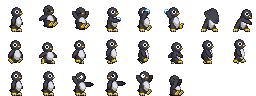
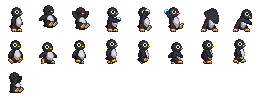
added dodge

diff --git a/core/src/com/platformer/states/Play.java b/core/src/com/platformer/states/Play.java
@@ -41,6 +41,7 @@ public class Play extends GameState {
     private TiledMap tiledMap;
     private OrthogonalTiledMapRenderer tilemapRenderer;
     private Background[] bgs = new Background[3];
+    private boolean shouldPauseAnimation = false;
 
     private Player player;
     private Score score;
@@ -84,6 +85,15 @@ public class Play extends GameState {
                 player.getBody().applyForceToCenter(0, 200, true);
             }
         }
+        if(GameInput.isDown(GameInput.DOWN)) {
+            shouldPauseAnimation = true;
+            player.setIsDodging(true);
+            player.getBody().setTransform(player.getPosition().x, player.getPosition().y + 0.1f / PPM, (float) (-90f * (Math.PI / 180f)));
+        } else {
+            shouldPauseAnimation = false;
+            player.setIsDodging(false);
+            player.getBody().setTransform(player.getPosition().x, player.getPosition().y + 0.1f / PPM, 0);
+        }
     }
 
     @Override
@@ -91,8 +101,13 @@ public class Play extends GameState {
         handleInput();
         world.step(dt, 6, 2);
         player.update(dt);
+        player.updateAnimation();
         for (int i = 0; i < bgs.length; i++) {
+            if(!shouldPauseAnimation)
             bgs[i].update(dt);
+        }
+        for (Obstacle o : obstacles) {
+            o.update(dt);
         }
         createObstacle(dt);
         removeObstacles();
@@ -151,14 +166,12 @@ public class Play extends GameState {
         fixtureDef.shape = shape;
         playerBody.createFixture(fixtureDef).setUserData("feet");
 
-
         shape.setAsBox(2 / PPM, 2 / PPM, new Vector2(10 / PPM, 2 / PPM), 0);
         fixtureDef.isSensor = true;
         fixtureDef.shape = shape;
         playerBody.createFixture(fixtureDef).setUserData("player_front");
 
         player = new Player(playerBody);
-
     }
 
     public void createTiles() {
@@ -167,7 +180,6 @@ public class Play extends GameState {
         tilemapRenderer = new OrthogonalTiledMapRenderer(tiledMap);
         TiledMapTileLayer terrainLayer = (TiledMapTileLayer) tiledMap.getLayers().get("terrain");
         createLayers(terrainLayer);
-
     }
 
     public void createLayers(TiledMapTileLayer layer) {
@@ -216,7 +228,7 @@ public class Play extends GameState {
             body.createFixture(fixtureDef).setUserData("obs");
 
             fixtureDef.isSensor = true;
-            shape.setAsBox(11 / PPM, 13 / PPM, new Vector2(-5 / PPM, 5 / PPM), 0);
+            shape.setAsBox(11 / PPM, 13 / PPM, new Vector2(-2 / PPM, 0 / PPM), 0);
             fixtureDef.shape = shape;
             body.createFixture(fixtureDef).setUserData("obs_front");
 
@@ -231,7 +243,6 @@ public class Play extends GameState {
             if(obstacles.get(i).getPosition().x <= 0) {
                 world.destroyBody(obstacles.get(i).getBody());
                 obstacles.removeIndex(i);
-                System.out.printf("yo");
             }
         }
     }

diff --git a/core/src/com/platformer/handlers/Animation.java b/core/src/com/platformer/handlers/Animation.java
@@ -25,11 +25,11 @@ public class Animation {
     }
 
     public void setFrames(TextureRegion[] frames, float delay) {
+        timesPlayed = 0;
         this.frames = frames;
         this.delay = delay;
         time = 0;
         currentFrame = 0;
-        timesPlayed = 0;
     }
 
     public void update(float dt) {
@@ -41,23 +41,16 @@ public class Animation {
     }
 
     public void step() {
-        if(shouldReset) {
+        time-=delay;
+        currentFrame++;
+        if(currentFrame == frames.length) {
             currentFrame = 0;
-            time = 0;
-            timesPlayed = 0;
-            shouldReset = false;
-        } else {
-            time-=delay;
-            currentFrame++;
-            if(currentFrame == frames.length) {
-                currentFrame = 0;
-                timesPlayed++;
-            }
+            timesPlayed++;
         }
     }
 
     public TextureRegion getFrame() {
         return frames[currentFrame];
     }
-    public int getTimesPlayed(){ return timesPlayed; };
+    public int getTimesPlayed(){ return timesPlayed; }
 }

diff --git a/core/src/com/platformer/entities/Player.java b/core/src/com/platformer/entities/Player.java
@@ -7,13 +7,31 @@ import com.platformer.Game;
 
 public class Player extends B2DSprite {
     TextureRegion[] walkRegion;
-    TextureRegion[] idle;
+    TextureRegion[] dodge;
+    private boolean isDodging;
 
     public Player(Body body) {
         super(body);
         Texture texture = Game.resources.getTexture("penguin");
         walkRegion = TextureRegion.split(texture, 32, 32)[1];
-//        idle = TextureRegion.split(texture, 32,32)[0];
+        dodge = TextureRegion.split(texture, 32,32)[2];
         setAnimation(walkRegion, 1/10f);
+    }
+
+    public void updateAnimation() {
+        if(!isDodging) {
+            if(getAnimation().getTimesPlayed() > 0) {
+                setAnimation(walkRegion, 1/10f);
+            }
+        } else {
+            setAnimation(dodge, 1/1000f);
+        }
+    }
+
+    public void setIsDodging(boolean isDodging) {
+        this.isDodging = isDodging;
+    }
+    public boolean getIsDodging() {
+        return this.isDodging;
     }
 }

diff --git a/core/src/com/platformer/handlers/InputProcessor.java b/core/src/com/platformer/handlers/InputProcessor.java
@@ -14,6 +14,9 @@ public class InputProcessor extends InputAdapter {
 
         if(keycode == Input.Keys.RIGHT)
             GameInput.setKey(GameInput.RIGHT, true);
+
+        if(keycode == Input.Keys.DOWN)
+            GameInput.setKey(GameInput.DOWN, true);
         return true;
 
     }
@@ -27,6 +30,9 @@ public class InputProcessor extends InputAdapter {
 
         if(keycode == Input.Keys.RIGHT)
             GameInput.setKey(GameInput.RIGHT, false);
+
+        if(keycode == Input.Keys.DOWN)
+            GameInput.setKey(GameInput.DOWN, false);
 
         return true;
     }

diff --git a/core/src/com/platformer/entities/Obstacle.java b/core/src/com/platformer/entities/Obstacle.java
@@ -6,11 +6,11 @@ import com.badlogic.gdx.physics.box2d.Body;
 import com.platformer.Game;
 
 public class Obstacle extends B2DSprite {
+    TextureRegion[] walkRegion;
     public Obstacle(Body body) {
         super(body);
         Texture texture = Game.resources.getTexture("penguin");
-        TextureRegion[] walkRegion = TextureRegion.split(texture, 32, 32)[1];
-//        idle = TextureRegion.split(texture, 32,32)[0];
+        walkRegion = TextureRegion.split(texture, 32, 32)[1];
         setAnimation(walkRegion, 1/10f);
     }
 }

diff --git a/core/src/com/platformer/entities/Score.java b/core/src/com/platformer/entities/Score.java
@@ -3,6 +3,7 @@ package com.platformer.entities;
 import com.badlogic.gdx.graphics.Color;
 import com.badlogic.gdx.graphics.g2d.BitmapFont;
 import com.badlogic.gdx.graphics.g2d.SpriteBatch;
+import com.platformer.Game;
 
 
 public class Score {
@@ -26,7 +27,7 @@ public class Score {
 
     public void draw(SpriteBatch sb) {
         sb.begin();
-        font.draw(sb, String.valueOf(score), 100, 100);
+        font.draw(sb, String.valueOf(score), Game.WIDTH - 25, Game.HEIGHT -5);
         sb.end();
     }
 }

diff --git a/core/src/com/platformer/handlers/GameInput.java b/core/src/com/platformer/handlers/GameInput.java
@@ -4,10 +4,11 @@ public class GameInput {
     public static boolean[] keys;
     public static boolean[] pkeys;
 
-    public static final int NUM_KEYS = 3;
+    public static final int NUM_KEYS = 4;
     public static final int JUMP = 0;
     public static final int LEFT = 1;
     public static final int RIGHT = 2;
+    public static final int DOWN = 3;
 
 
 
